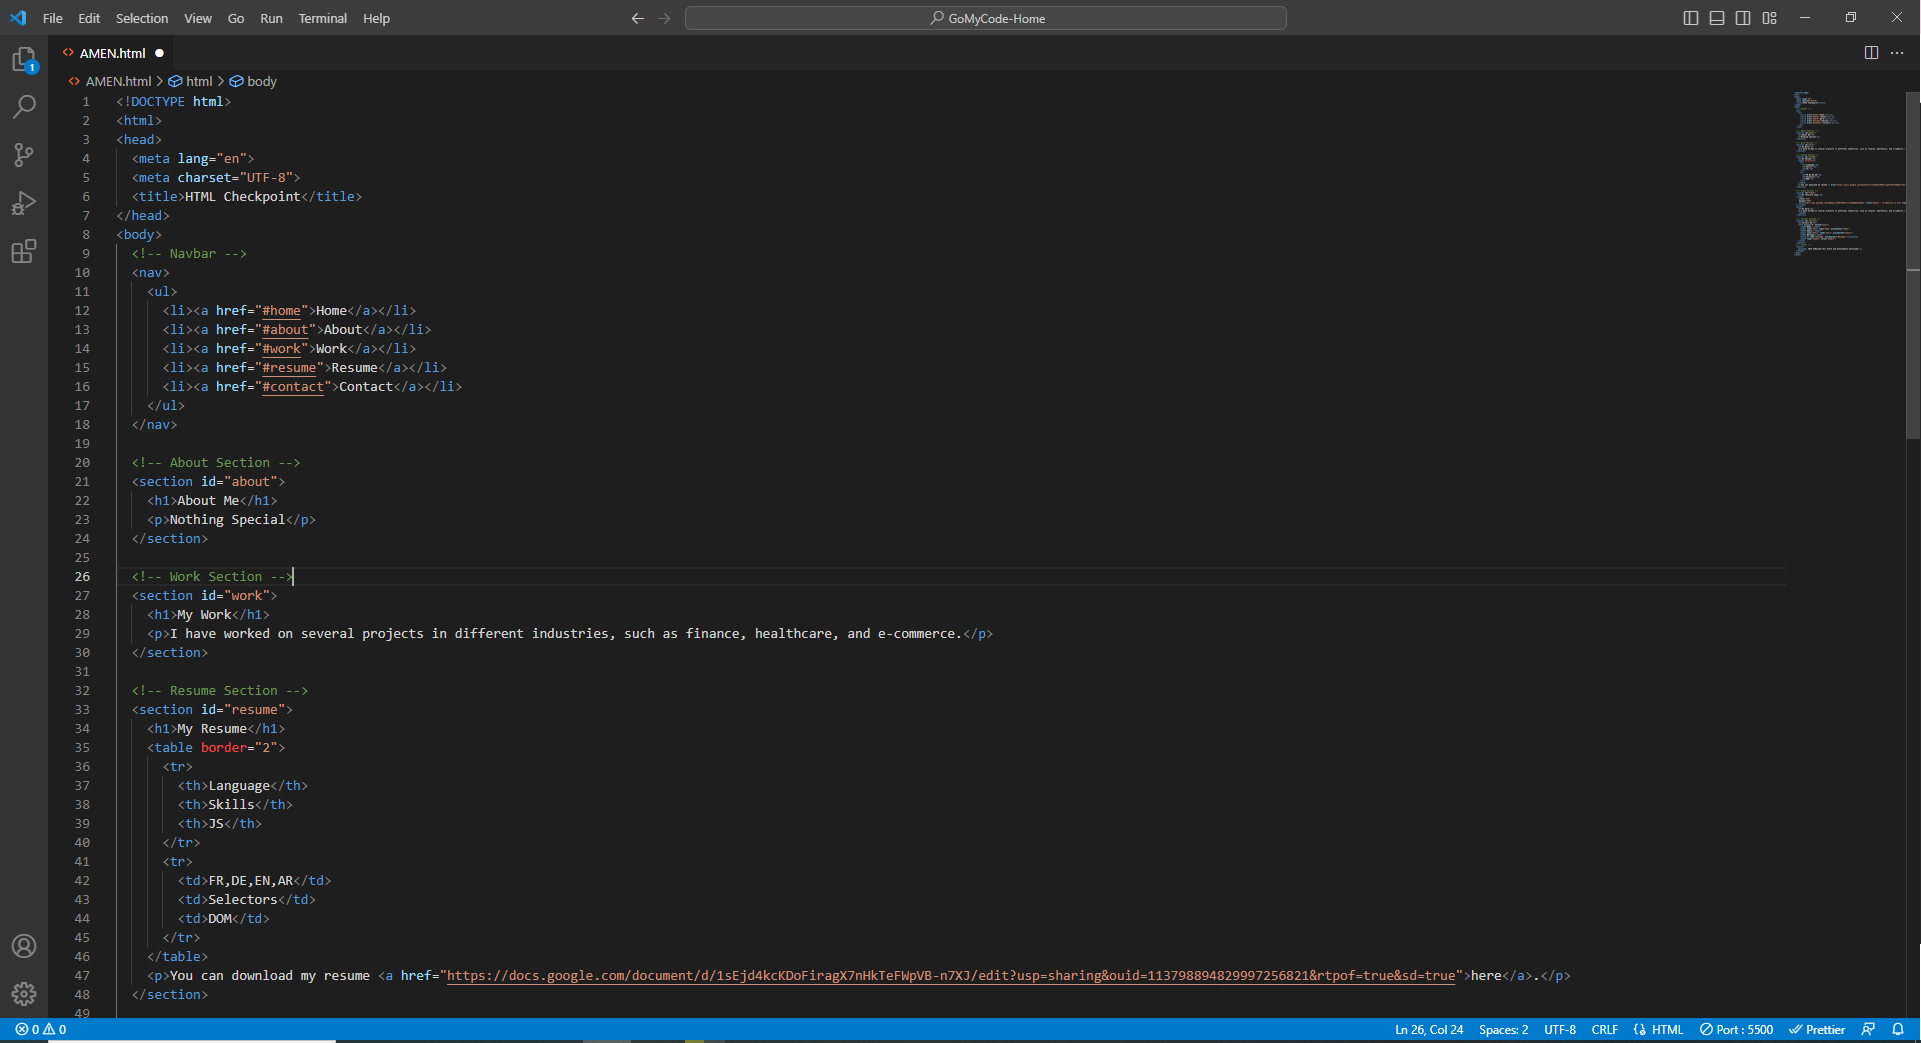
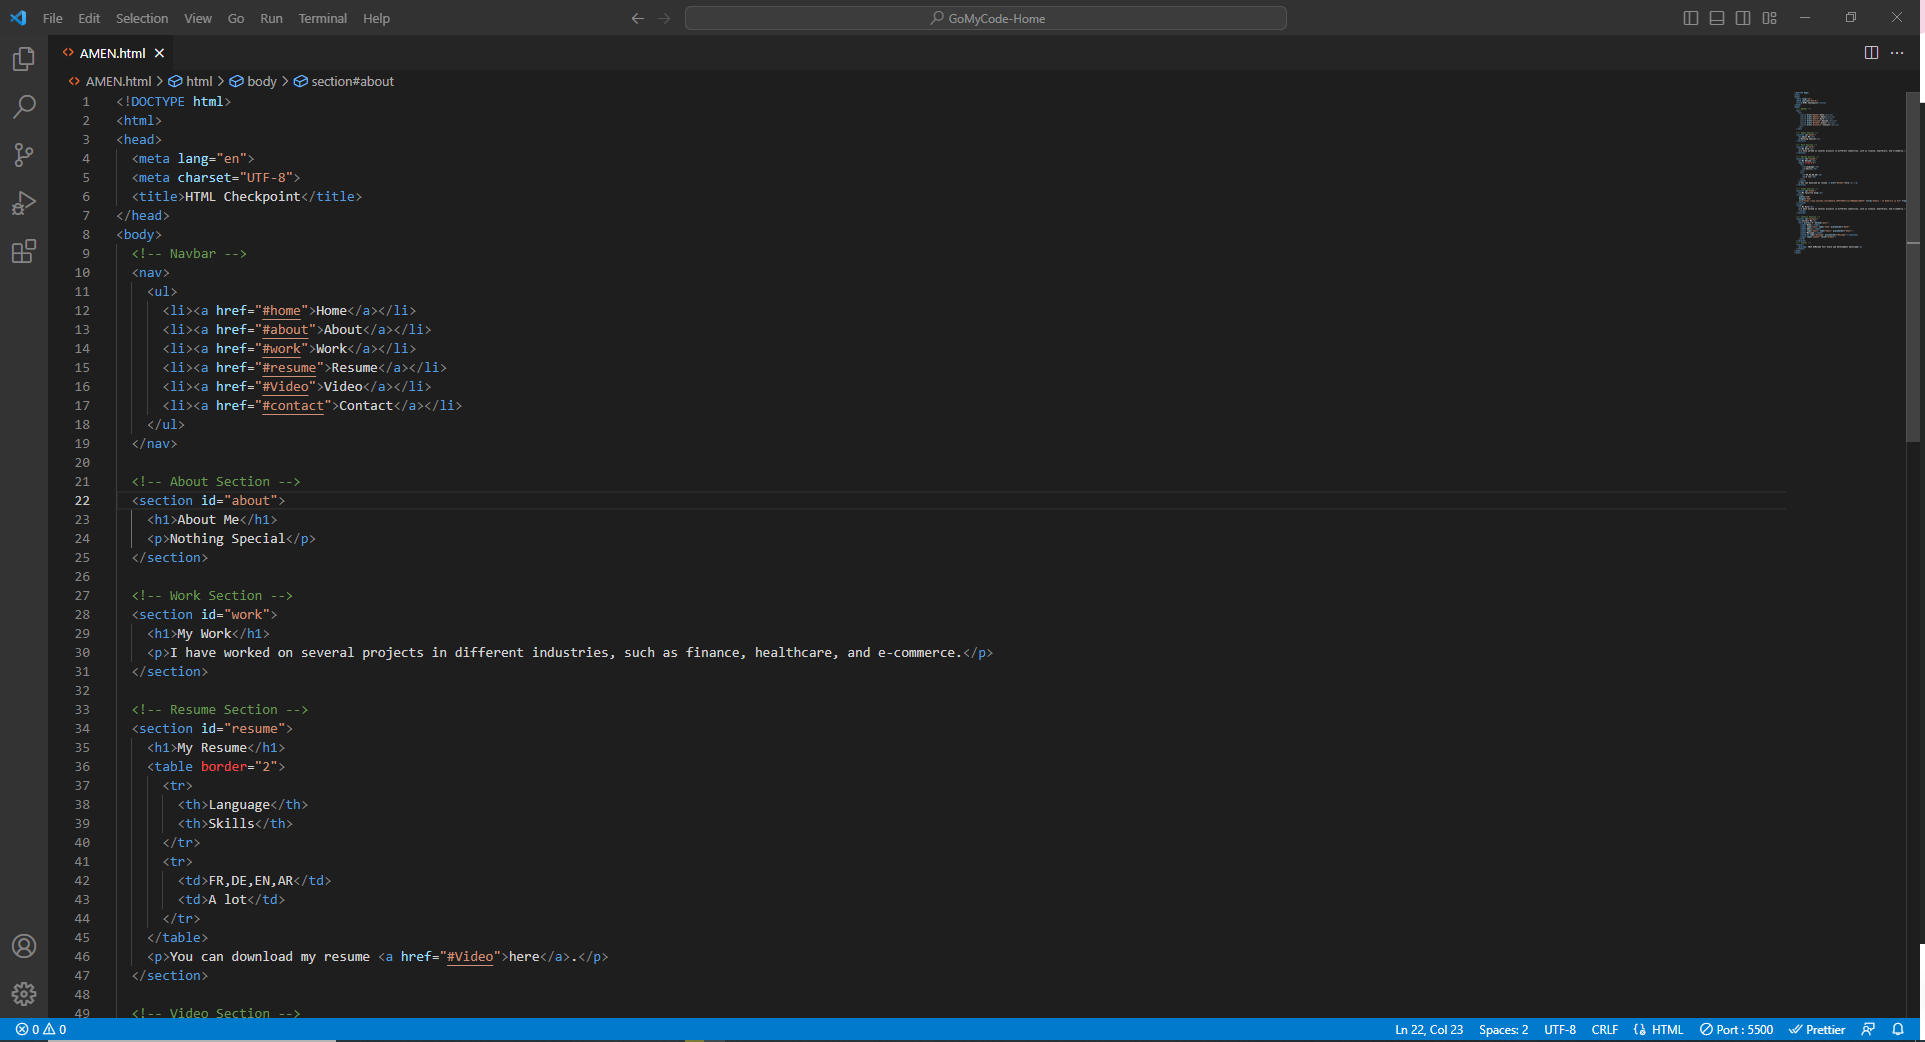
1 + 2 add

diff --git a/AMEN.html b/AMEN.html
@@ -13,6 +13,7 @@
       <li><a href="#about">About</a></li>
       <li><a href="#work">Work</a></li>
       <li><a href="#resume">Resume</a></li>
+      <li><a href="#Video">Video</a></li>
       <li><a href="#contact">Contact</a></li>
     </ul>
   </nav>
@@ -36,15 +37,13 @@
       <tr>
         <th>Language</th>
         <th>Skills</th>
-        <th>JS</th>
       </tr>
       <tr>
         <td>FR,DE,EN,AR</td>
-        <td>Selectors</td>
-        <td>DOM</td>
+        <td>A lot</td>       
       </tr>
     </table>
-    <p>You can download my resume <a href="https://docs.google.com/document/d/1sEjd4kcKDoFiragX7nHkTeFWpVB-n7XJ/edit?usp=sharing&ouid=113798894829997256821&rtpof=true&sd=true">here</a>.</p>
+    <p>You can download my resume <a href="#Video">here</a>.</p>
   </section>
 
   <!-- Video Section -->
@@ -78,6 +77,5 @@
   <footer>
     <p>&copy; 2023 GoMycode Full Stack web development bootscamp</p>
   </footer>
-  <li><a href="#home">home</a></li>
 </body>
 </html>
